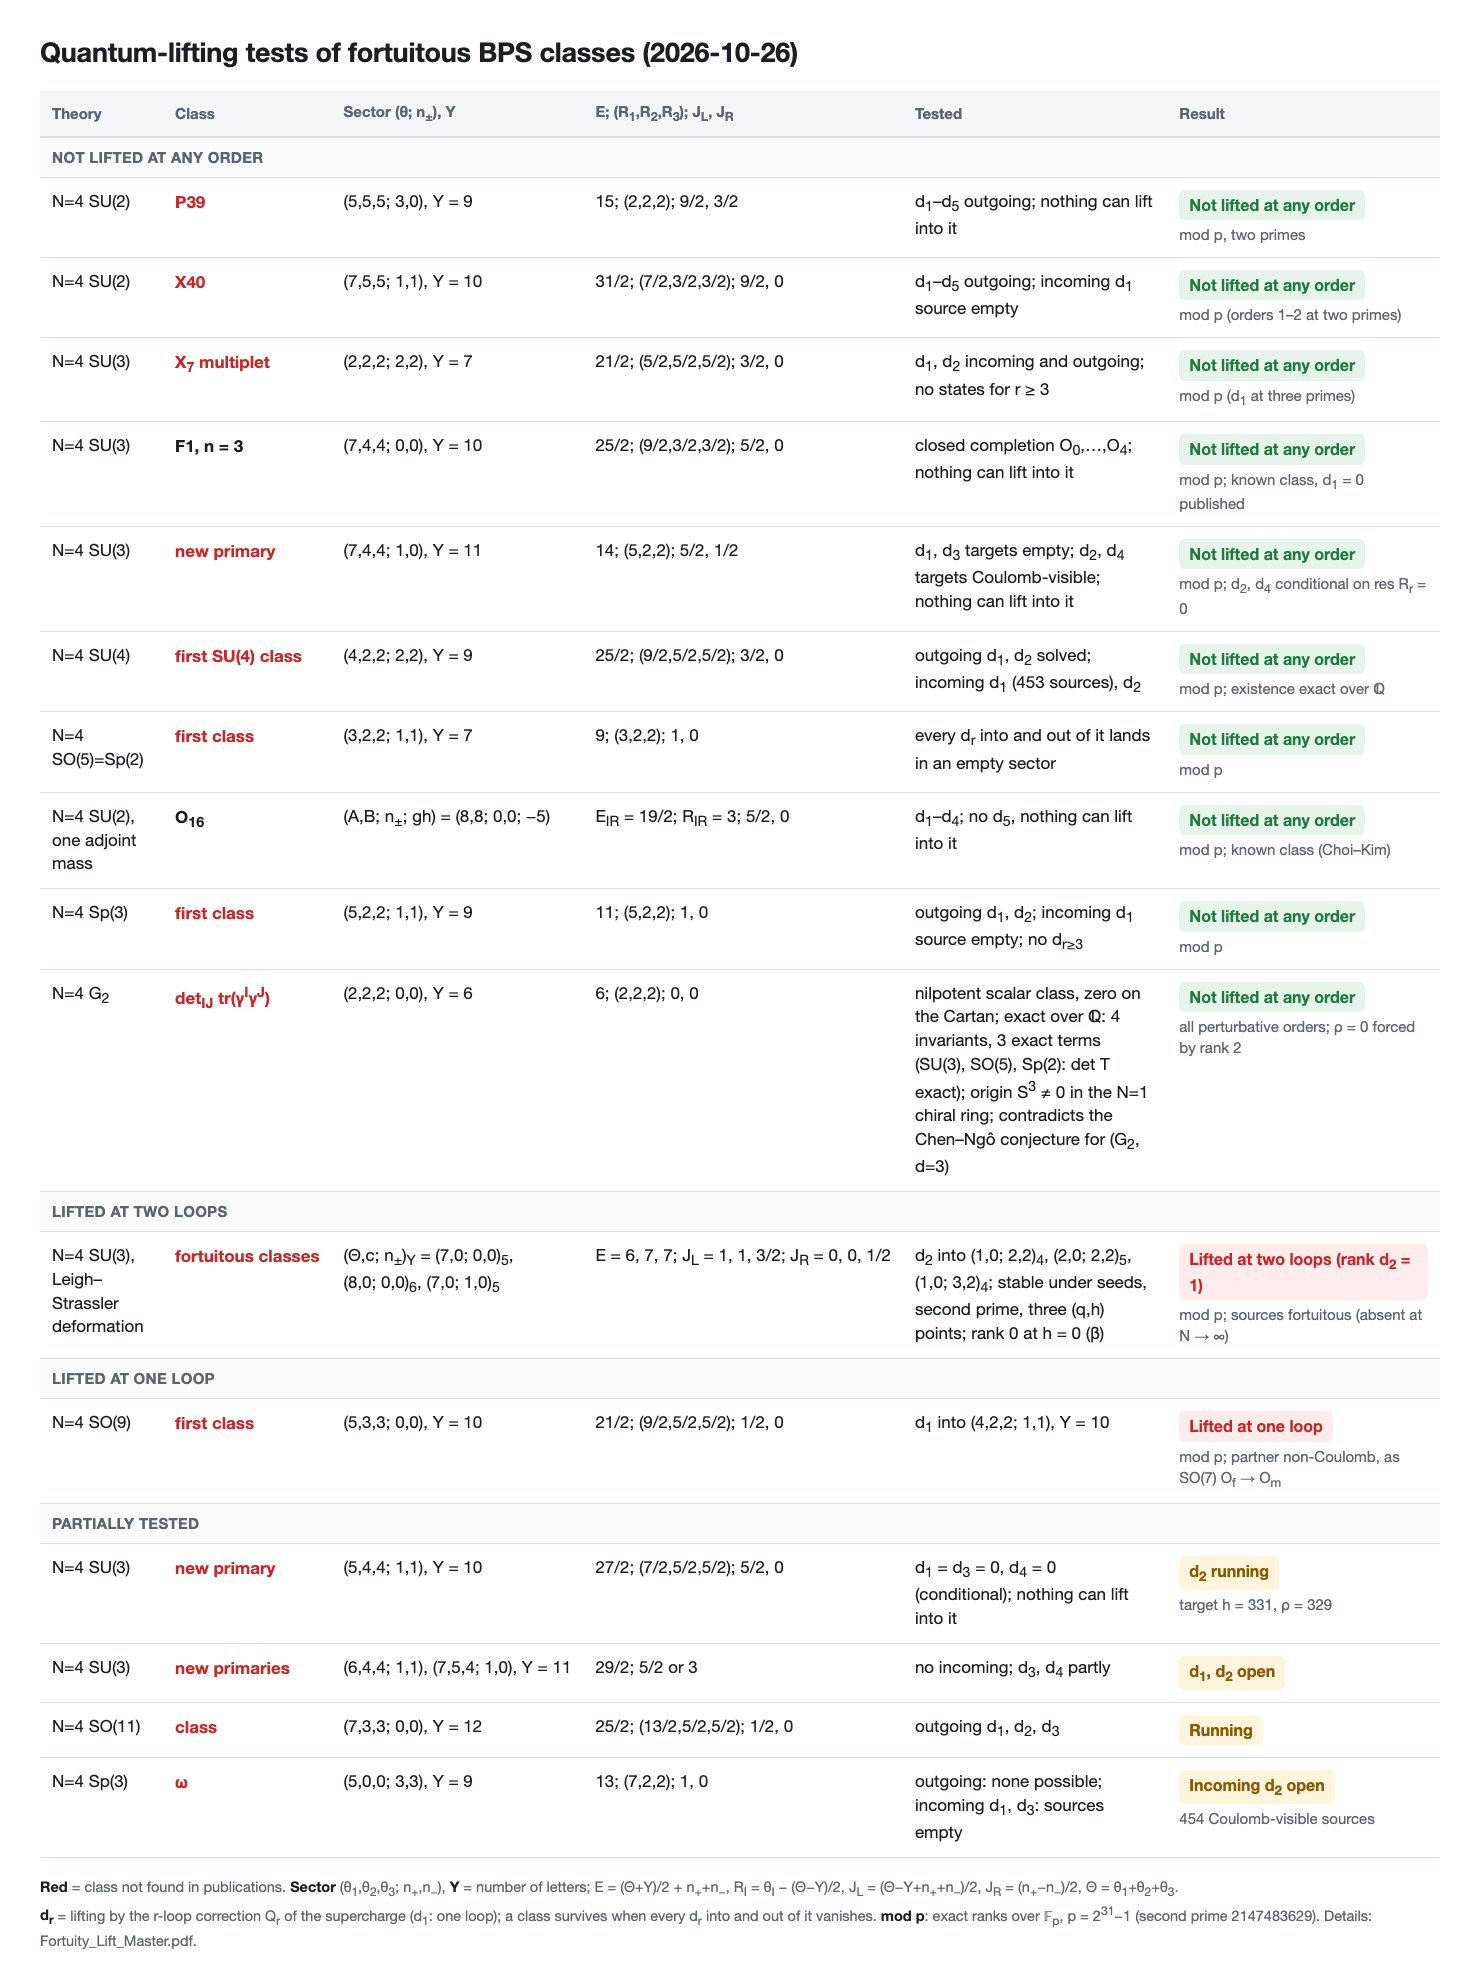
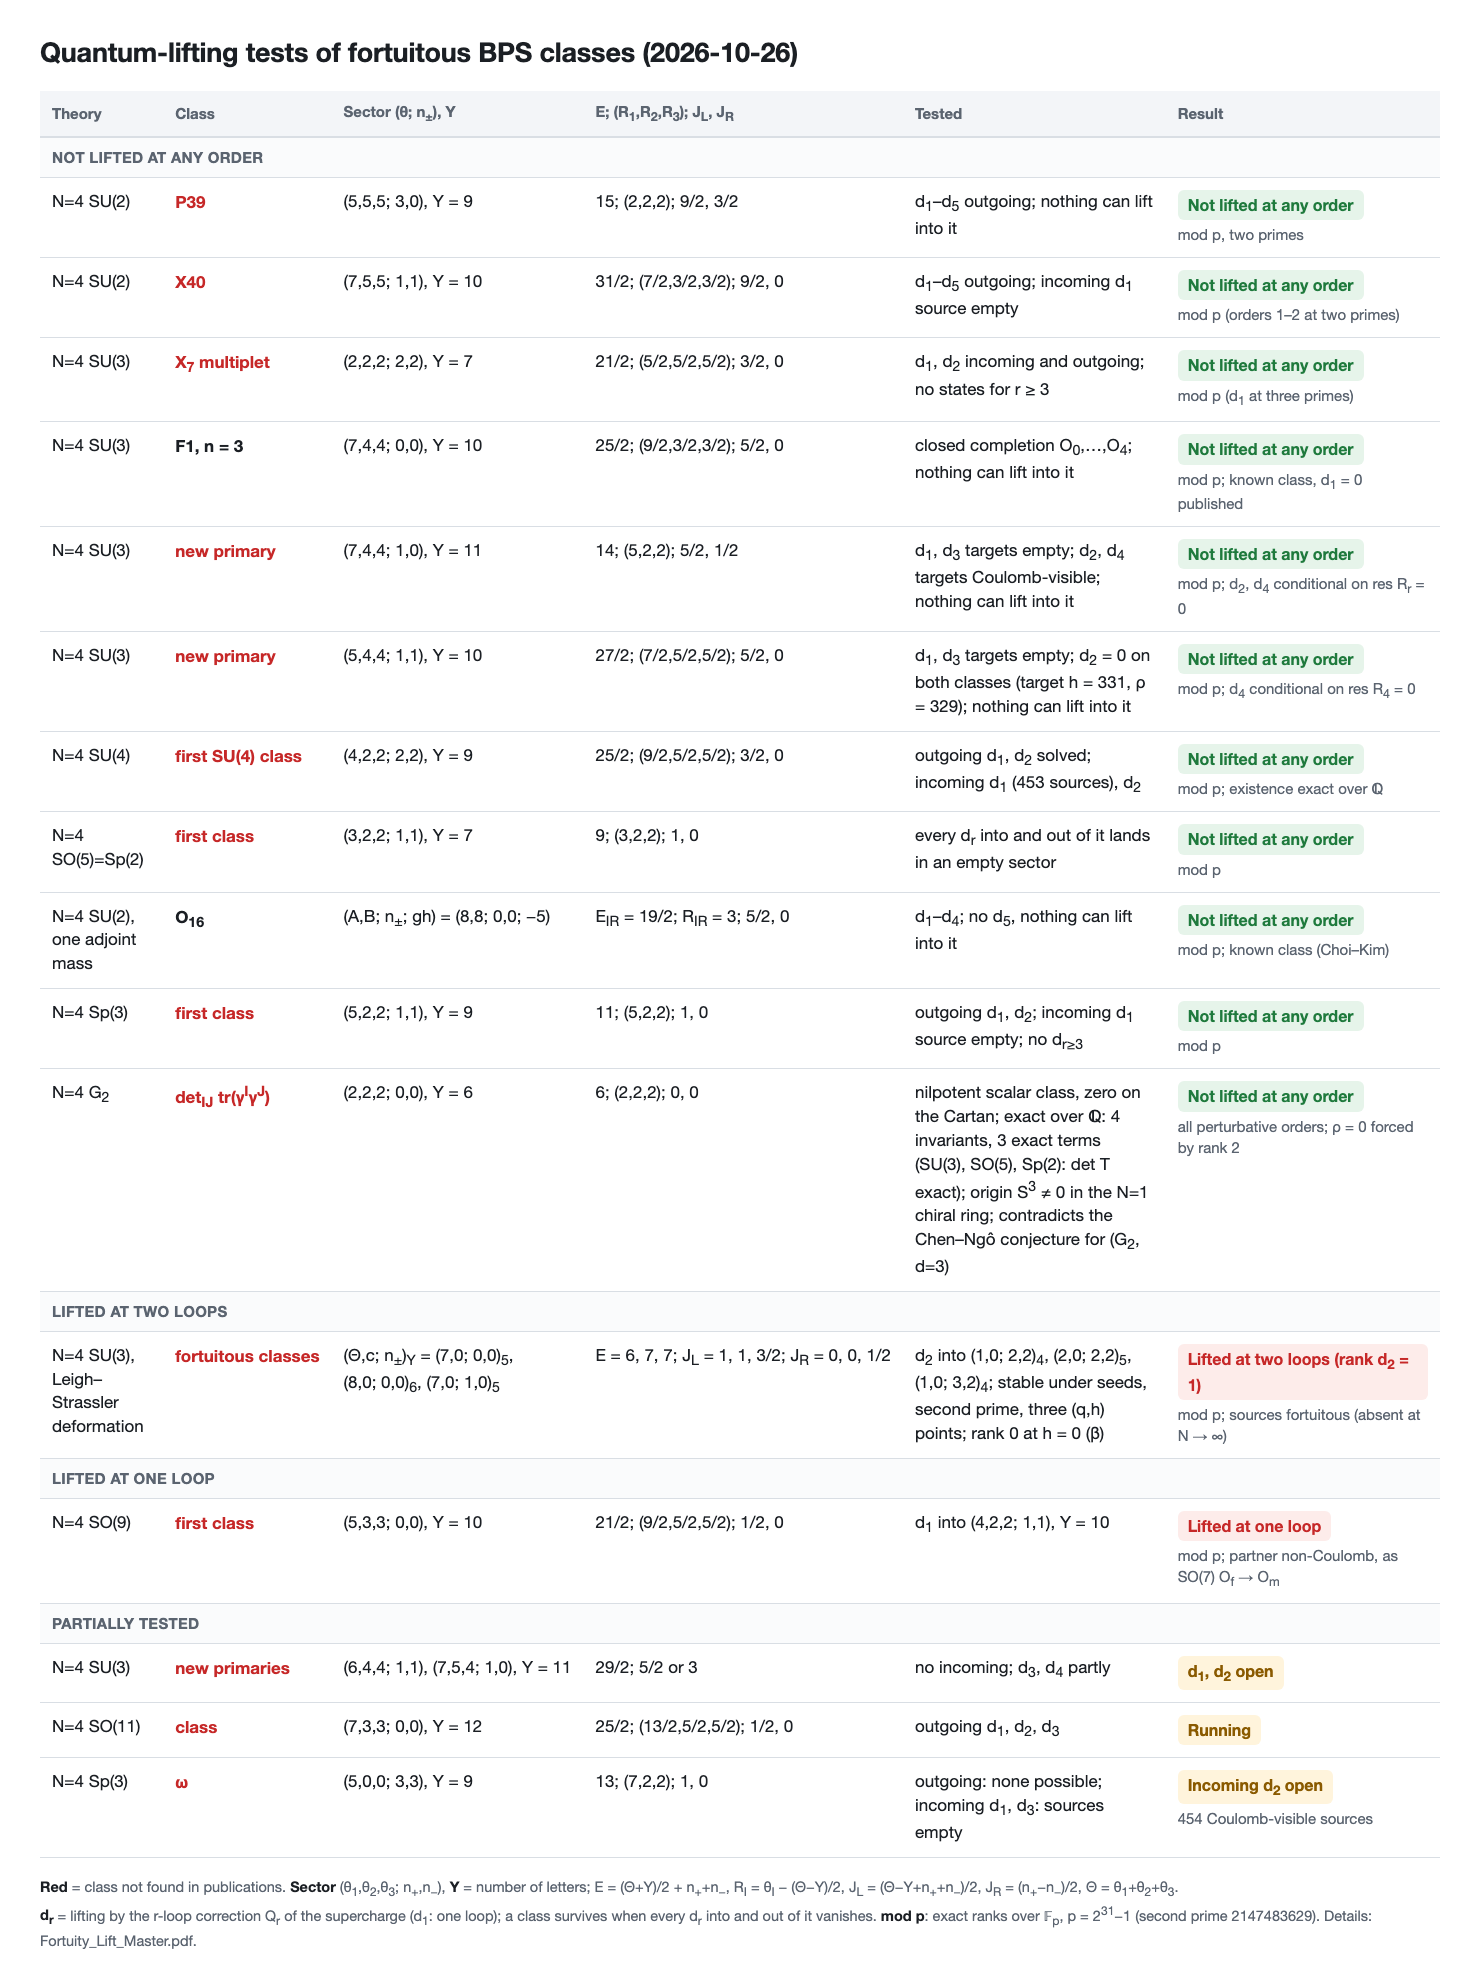
SU(3) (5,4,4;1,1) Y10: d2 = 0 on both classes (was listed as running)

diff --git a/summary_table.html b/summary_table.html
@@ -71,6 +71,12 @@
   <td><span class="badge ok">Not lifted at any order</span><span class="sub">mod p; d<sub>2</sub>, d<sub>4</sub> conditional on res R<sub>r</sub> = 0</span></td>
 </tr>
 <tr>
+  <td>N=4 SU(3)</td><td class="cls new">new primary</td>
+  <td class="q">(5,4,4; 1,1), Y = 10</td><td class="q">27/2; (7/2,5/2,5/2); 5/2, 0</td>
+  <td>d<sub>1</sub>, d<sub>3</sub> targets empty; d<sub>2</sub> = 0 on both classes (target h = 331, ρ = 329); nothing can lift into it</td>
+  <td><span class="badge ok">Not lifted at any order</span><span class="sub">mod p; d<sub>4</sub> conditional on res R<sub>4</sub> = 0</span></td>
+</tr>
+<tr>
   <td>N=4 SU(4)</td><td class="cls new">first SU(4) class</td>
   <td class="q">(4,2,2; 2,2), Y = 9</td><td class="q">25/2; (9/2,5/2,5/2); 3/2, 0</td>
   <td>outgoing d<sub>1</sub>, d<sub>2</sub> solved; incoming d<sub>1</sub> (453 sources), d<sub>2</sub></td>
@@ -120,12 +126,6 @@
 </tr>
 
 <tr class="sec"><td colspan="6">Partially tested</td></tr>
-<tr>
-  <td>N=4 SU(3)</td><td class="cls new">new primary</td>
-  <td class="q">(5,4,4; 1,1), Y = 10</td><td class="q">27/2; (7/2,5/2,5/2); 5/2, 0</td>
-  <td>d<sub>1</sub> = d<sub>3</sub> = 0, d<sub>4</sub> = 0 (conditional); nothing can lift into it</td>
-  <td><span class="badge part">d<sub>2</sub> running</span><span class="sub">target h = 331, ρ = 329</span></td>
-</tr>
 <tr>
   <td>N=4 SU(3)</td><td class="cls new">new primaries</td>
   <td class="q">(6,4,4; 1,1), (7,5,4; 1,0), Y = 11</td><td class="q">29/2; 5/2 or 3</td>

diff --git a/README.md b/README.md
@@ -13,7 +13,7 @@ Red = class not found in publications.
 | theory | complete frontier (all sectors) | fortuitous generators and classes | quantum lift | PDF |
 |---|---|---|---|---|
 | N=4, SU(2) | E+J_L ≤ 33/2 | O_0 and its multiplet, O_1, products; $\color{red}{\text{P39}}$, $\color{red}{\text{X40}}$ | O_0, P39, X40: all orders; O_1: one loop | §1 |
-| N=4, SU(3) | E+J_L ≤ 15 | $\color{red}{\text{X7 multiplet}}$, F1 and B1 towers; $\color{red}{\text{new primaries}}$ (5,4,4;1,1) Y10, (7,4,4;1,0) Y11, (6,4,4;1,1) Y11, (7,5,4;1,0) Y11 | X7, F1 (n=3): all orders; (7,4,4;1,0): all orders [cond]; (5,4,4;1,1): d_2 running | §1 |
+| N=4, SU(3) | E+J_L ≤ 15 | $\color{red}{\text{X7 multiplet}}$, F1 and B1 towers; $\color{red}{\text{new primaries}}$ (5,4,4;1,1) Y10, (7,4,4;1,0) Y11, (6,4,4;1,1) Y11, (7,5,4;1,0) Y11 | X7, F1 (n=3): all orders; (7,4,4;1,0): all orders [cond]; (5,4,4;1,1): d_1 = d_2 = d_3 = 0, d_4 = 0 [cond] | §1 |
 | N=4, SU(4) | E+J_L ≤ 27/2 | $\color{red}{\text{first SU(4) class}}$ (4,2,2;2,2) Y9, K=1 over Q | all orders | §1 |
 | N=4, SU(5) … SU(15) | E+J_L ≤ 14, 15, 15, 31/2, 33/2, 17, 18 (N=5…10, 11–15) | none | – | §1 |
 | N=4, SO(2N+1), Sp(N) | E+J_L ≤ 23/2 (SO(5), SO(7), SO(9)); ≤ 12 (Sp(3), Sp(4), Sp(5), SO(11)) | O_0 (SO(3)=Sp(1)); $\color{red}{\text{SO(5)=Sp(2)}}$ (3,2,2;1,1) Y7; O_f (SO(7)); $\color{red}{\text{Sp(3)}}$ (5,2,2;1,1) Y9 and $\color{red}{\omega}$; $\color{red}{\text{SO(9)}}$ (5,3,3;0,0) Y10; $\color{red}{\text{SO(11)}}$ (7,3,3;0,0) Y12 | SO(5), Sp(3) classes: all orders; O_f and the SO(9) class: one loop; SO(11): running. S-duality test: dim E_2^{SO(7)} = dim E_2^{Sp(3)} at every (E, R_I, J_L, J_R), E+J_L ≤ 11 (classical mismatch at 2, 2, 6, 7, 12 charges for E+J_L = 9 … 11, all removed by d_1 of SO(7)); SO(9) vs Sp(4) running | §2 |
